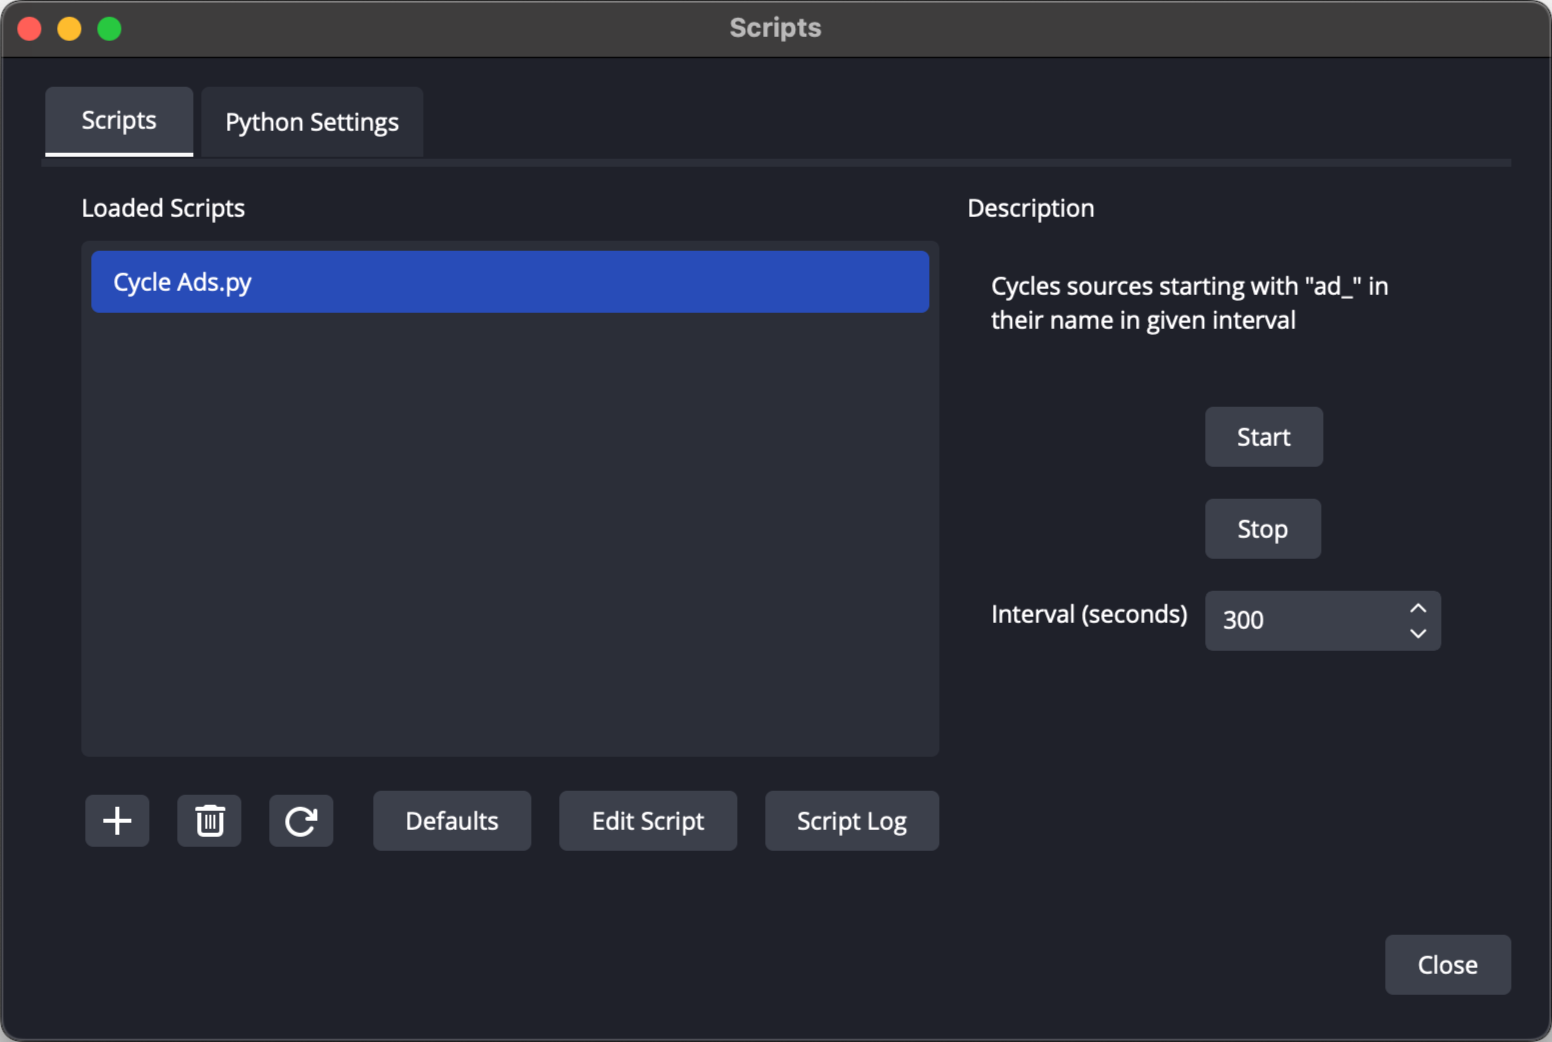
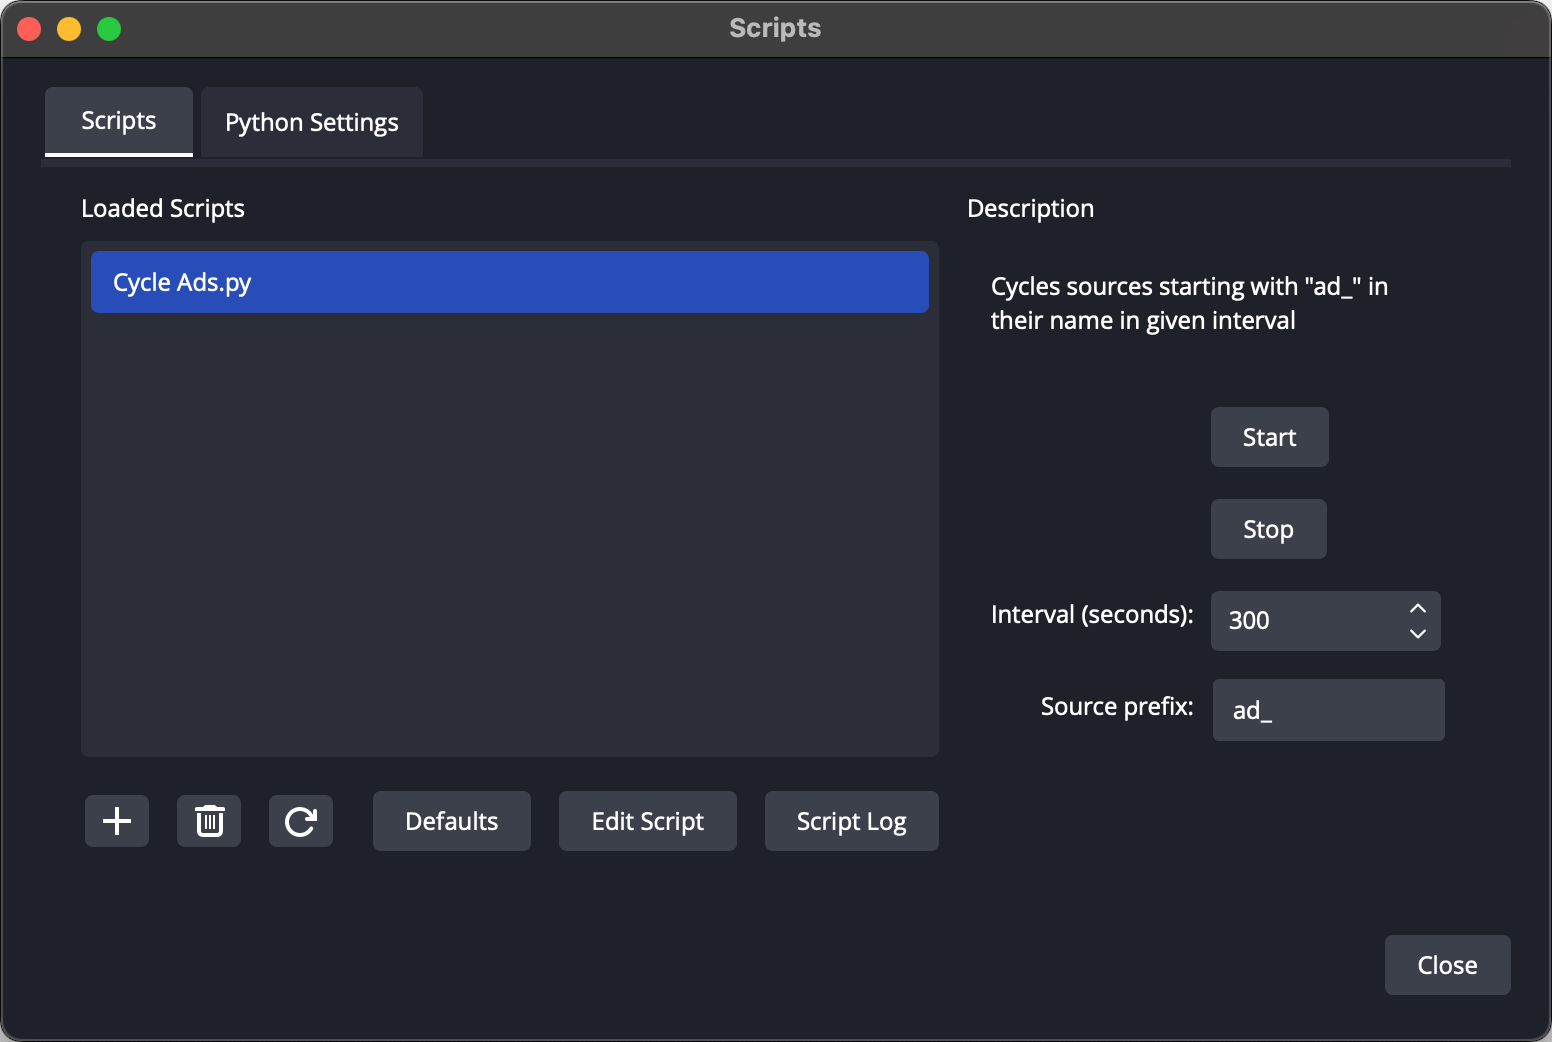
Prefix configurable; Sources can be inside groups

diff --git a/Cycle Ads.py b/Cycle Ads.py
@@ -1,11 +1,13 @@
 import obspython as S
 
 DEFAULT_INTERVAL = 5*60   # default interval is 5 minutes
+DEFAULT_PREFIX = "ad_"
 
 class AdCycler:
     def __init__(self):
         self.timer_on = False
         self.interval = DEFAULT_INTERVAL
+        self.prefix = DEFAULT_PREFIX
     
     def start_pressed(self, props, prop):
         if not self.timer_on:
@@ -19,7 +21,7 @@ class AdCycler:
     def ticker(self):
         if self.timer_on:
             current_scene = S.obs_scene_from_source(S.obs_frontend_get_current_scene())
-            ads = tuple(filter(lambda x: x[:3] == "ad_", [S.obs_source_get_name(i) for i in S.obs_enum_sources()]))
+            ads = tuple(filter(lambda x: x[:len(self.prefix)] == self.prefix, [S.obs_source_get_name(i) for i in S.obs_enum_sources()]))
             if len(ads) == 1:  # if only one ad, then just restart playing the video
                 S.obs_source_media_restart(S.obs_get_source_by_name(ads[0]))
             elif len(ads) > 1: # if more than one ad, then hide the current one and show the next one; showing next one will automatically restart the video the play
@@ -29,11 +31,11 @@ class AdCycler:
                     if visible_ad_found:
                         ad_to_show = ad
                         break
-                    scene_item = S.obs_scene_find_source(current_scene, ad)
+                    scene_item = S.obs_scene_find_source_recursive(current_scene, ad)
                     if S.obs_sceneitem_visible(scene_item):
                         S.obs_sceneitem_set_visible(scene_item, False)
                         visible_ad_found = True
-                S.obs_sceneitem_set_visible(S.obs_scene_find_source(current_scene, ad_to_show), True)
+                S.obs_sceneitem_set_visible(S.obs_scene_find_source_recursive(current_scene, ad_to_show), True)
             S.obs_scene_release(current_scene)
             if self.interval != self.old_interval: # if interval changed, update it
                 S.remove_current_callback()
@@ -46,15 +48,18 @@ ad_cycler = AdCycler()
 
 def script_defaults(settings):
     S.obs_data_set_default_int(settings, "interval", DEFAULT_INTERVAL)
+    S.obs_data_set_default_string(settings, "prefix", DEFAULT_PREFIX)
 
 def script_update(settings):
     ad_cycler.interval = S.obs_data_get_int(settings, "interval")
+    ad_cycler.prefix = S.obs_data_get_string(settings, "prefix")
 
 def script_properties():  # ui
     props = S.obs_properties_create()
     S.obs_properties_add_button(props, "startButton", "Start", lambda x,y: AdCycler.start_pressed(ad_cycler, x, y))
     S.obs_properties_add_button(props, "stopButton", "Stop", lambda x,y: AdCycler.stop_pressed(ad_cycler, x, y))
-    interval = S.obs_properties_add_int(props, "interval", "Interval (seconds)", 1, 3600, 300)
+    interval = S.obs_properties_add_int(props, "interval", "Interval (seconds):", 1, 3600, 300)
+    prefix = S.obs_properties_add_text(props, "prefix", "Source prefix:", S.OBS_TEXT_DEFAULT)
     return props
 
 def script_description():

diff --git a/README.md b/README.md
@@ -16,7 +16,7 @@ I have successfully tested the script with OBS 29.0.2 and Python 3.10.10 on macO
 
 ## Setup
 
-Name your ad media (sources) so they start with ad_<br />
+Name your ad media (sources) so they start with the same prefix. The default prefix is ad_, but you can change the prefix in the settings.<br />
 The script will operate on media named this way; it will not touch other sources.
 
 If there is only one ad media, then it needs to be visible. The script will not change its visibility, it will only restart the play on the specified interval.
